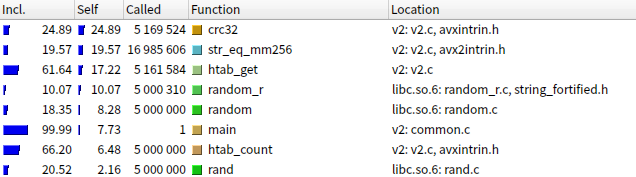
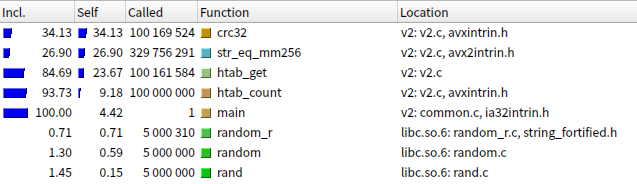
remeasure with O3

diff --git a/README.md b/README.md
@@ -10,40 +10,60 @@ TODO: замеры снова прогнать
 
 Хэш-таблицы используются когда есть необходимость в структуре данных, 
 которая будет сопоставлять значение с ключом ("словарь"). Для словарей стандартен
-набор из трёх поддерживаемых операций -- найти элемент по ключу, вставить элемент и удалить элемент, хотя некоторые словари поддерживают и другие операции.
+набор из трёх поддерживаемых операций -- найти элемент по ключу, вставить элемент и
+удалить элемент, хотя некоторые словари поддерживают и другие операции.
 
-Есть несколько вариаций хэш-таблиц, но мы рассмотрим вариант с закрытым хэшированием. Идея его такова:
+Есть несколько вариаций хэш-таблиц, но мы рассмотрим вариант с закрытым хэшированием.
+Идея его такова:
 
-Допустим был реализован словарь на односвязанном списке. Тогда операции реализованы таким образом:
+Допустим был реализован словарь на односвязанном списке. Тогда операции реализованы
+таким образом:
 
- - Поиск: итерируемся по списку, сравниваем ключи. Ключ совпал -- элемент найден, иначе если ни один не совпал, то ничего не найдено.
+ - Поиск: итерируемся по списку, сравниваем ключи. Ключ совпал -- элемент найден,
+   иначе если ни один не совпал, то ничего не найдено.
  - Вставка: добавляем новый элемент в конец списка
  - Удаление: находим элемент и убираем его из списка
 
-Данная реализация крайне проста, но неэффективна -- при больших количествах элементах на поиск может уходить время, пропорциональное количеству элементов в словаре, которое может быть большим.
+Данная реализация крайне проста, но неэффективна -- при больших количествах элементах
+на поиск может уходить время, пропорциональное количеству элементов в словаре, которое
+может быть большим.
 
-Поэтому возникла идея -- а что если разбить большой список на отдельные маленькие по какому-то признаку, связанному с ключом? Тогда на поиск элемента в худшем случае  будет уходить количество времени пропорциональное длинне самого длинного списка, что при правильном выборе признака можно значительно уменьшить.
+Поэтому возникла идея -- а что если разбить большой список на отдельные маленькие по
+какому-то признаку, связанному с ключом? Тогда на поиск элемента в худшем случа
+будет уходить количество времени пропорциональное длинне самого длинного списка,
+что при правильном выборе признака можно значительно уменьшить.
 
-Этот критерий называется *хэш-функцией* (*hash function*) от ключа, обычно связанные списки хранятся в массиве, каждый список называют *корзиной* (*bucket*).
+Этот критерий называется *хэш-функцией* (*hash function*) от ключа, обычно связанные
+списки хранятся в массиве, каждый список называют *корзиной* (*bucket*).
 
-Если хэш-функция имеет равномерное распределение на $n$ вставленных ключах, и всего $k$ списков, то мат. ожидание количества элементовв в каждом списке это $\frac n k$. Данная величина называется *load factor* (*коэффициент загрузки*).
+Если хэш-функция имеет равномерное распределение на $n$ вставленных ключах, и всего
+$k$ списков, то мат. ожидание количества элементовв в каждом списке это $\frac n k$.
+Данная величина называется *load factor* (*коэффициент загрузки*).
 
-Если строить хэш-таблицу так, что коэфф. загрузки не превышает чего-то вроде $2$, то в среднем за один поиск будет просмотрено $< 2$ элементов, что сильно лучше чем смотреть все.
+Если строить хэш-таблицу так, что коэфф. загрузки не превышает чего-то вроде $2$,
+то в среднем за один поиск будет просмотрено $< 2$ элементов, что сильно лучше чем
+смотреть все.
 
-Но имеется уязвимость таких структур -- если имеется много элементов с одинаковыми значениями хэш-функции, то в одном списке снова оказывается много элементов, и скорость снова скатывается к тому, что было изначально. Поэтому для "небезопасных" данных хэш-таблицы нужно использовать осторожно, не забывая про эту возможность.
+Но имеется уязвимость таких структур -- если имеется много элементов с одинаковыми
+значениями хэш-функции, то в одном списке снова оказывается много элементов, и скорость
+снова скатывается к тому, что было изначально. Поэтому для "небезопасных" данных
+хэш-таблицы нужно использовать осторожно, не забывая про эту возможность.
 
 ### Методика измерений
 
-В данной работе используются методы, приведённые в пособии П.В. Попова и А.А. Нозика "Обработка результатов учебного эксперимента"[^measure-methods], также методы из пособия Митина И.В. "Умеете ли вы правильно округлять"[^rounding-methods].
+В данной работе используются методы, приведённые в пособии П.В. Попова и А.А. Нозика
+"Обработка результатов учебного эксперимента"[^measure-methods], также методы из
+пособия Митина И.В. "Умеете ли вы правильно округлять"[^rounding-methods].
 
 В данной работе оптимизируется **время поиска элемента в таблице**, так что
 измерение направлены на это. 
 
-Поскольку время одного поиска небольшое, измеряется время некоторого количества операций поиска, внутри одного "блока" время работы одной операции считается константным. Таким обазом считаем среднее время работы операций внутри одного измерения, ошибку внутри блока вычислить не возможно.
+Поскольку время одного поиска небольшое, измеряется время некоторого количества
+операций поиска случайных ключей. Таким обазом считаем мат. ожидание времени работы
+операции при случайных ключах.
 
-> **TODO:** спросить -- может всё-таки возможно?
-
-Таких измерений проводится несколько десятков, затем считается среднее время работы вставки и погрешность по формулам:
+Таких измерений для одного и того же набора выбираемых ключей проводится несколько
+десятков, затем считается среднее время работы вставки и погрешность по формулам:
 
 $$
     t = \mathbb{E}[T] = \frac {\sum_{i=1}^{n} t_i} n 
@@ -56,18 +76,21 @@ $$
 
 (где $T$ -- время работы, $t_i$ -- результаты измерений)
 
-Погрешность взята в $3 \sigma$, таким образом вероятность попадания в данные границы $\approx 99.7\%$. **Это верно только при нормальном распределении измерений, но проверки данного факта в работе нет, потому что в таком случае нужно более "продвинутые" методы измерения**.
+Погрешность взята в $3 \sigma$, таким образом вероятность попадания в данные границы
+$\approx 99.7\%$. **Это верно только при нормальном распределении измерений,
+но проверки данного факта в работе нет, потому что в таком случае нужно более
+"продвинутые" методы измерения**.
 
 ## Архитектура программы
 
 ### Реализация таблицы
 
-Была реальзована версия таблиц со строковыми ключами и числовыми значениями.
-Использовано хэширование `crc32(key) % num_buckets`, метод разрешения колизий цепочками.
+Была реальзована версия таблиц с закрытым хэшированием со строковыми ключами и
+числовыми значениями. Использовано хэширование `crc32(key) % num_buckets`.
 
 Поскольку тут задача не состоит в реализации библиотеки, хэш-таблица хранится в
 статической переменной у каждой реализации. Размер таблицы фиксируется при
-инициализации, перехэширование не реализовано. 
+инициализации, перехэширование (увеличение количества корзин) не реализовано. 
 
 В учебных целях размер выбран таким образом, чтобы load factor был в райное 15-20.
 В "промышленных" версиях load factor 1.5-2, здесь он был взят высокий чтобы 
@@ -77,16 +100,16 @@ $$
 
 Последовательность действий с таблицей такова:
 
- - Загружаем слова из текста Сильмарилиона (`data/tolkien.txt`) в таблицу
+ - Загружаем слова из текста Сильмарилиона[^tolkien] (`data/tolkien.txt`) в таблицу
  - Проводим большое кол-во поисков случайно выбранных слов
  - Замеряем время, затраченное на поиски, считаем время затраченное на одну операцию поиска.
+ - Повторяем измерения несколько десятков раз
+ - Считаем среденее и ошибку.
 
 Время загрузки в измеренном времени не учитывается, рандомные индексы слов для поиска
-генерируются заранее.
+генерируются заранее с помощью `rand()`, так что время работы `rand()` в измерения попадает.
 
-Замеры проводятся по 5e6 поисков, всего 20 измерений. Измерение времени выполнения проводится через `__rdtsc()`. На основании полученных измерений считается среднее число циклов на одну операцию поиска и ошибка среднего.
-
-Ошибкой считается тройная дисперсия измеренных значений.
+Замеры проводятся по 5e6 поисков, всего 20 измерений. Измерение времени выполнения проводится через `__rdtsc()`.
 
 Обстановка измерений такая:
 
@@ -95,7 +118,7 @@ $$
  - Компилятор: `gcc (GCC) 14.2.1 20250207`
  - Valgrind: `valgrind-3.24.0`
  - GLibc: `2.41`, отладочные символы установлены отдельно.
- - Графическая оболочка не запущена.
+ - Графическая оболочка не запущена, сетевая карта выключена.
 
 ## Реализации
 
@@ -141,7 +164,7 @@ make res/v0
 ./res/v0 # измеряет время
 ```
 
-Получили 229 ± 3 тактов на запрос.
+Получили 224 ± 2 тактов на запрос.
 
 Затем измерения того же кода, только с добавлением флага `-O3`:
 
@@ -153,7 +176,8 @@ make res/callgrind-v1.data # Запускает callgrind
 kcachegrind res/callgrind-v1.data
 ```
 
-Получено время 173 ± 4 такта на один запрос, ускорение программы при добавлении `-O3` в 1.33 ± 0.05 раз.
+Получено время 166 ± 4 такта на один запрос, **ускорение программы при добавлении
+`-O3` в 1.350 ± 0.023 раз.**
 
 Продолжаем. В kcachegrind в профиле видим:
 
@@ -165,7 +189,7 @@ kcachegrind res/callgrind-v1.data
 
 Храним слова в нодах хэш-таблицы в `__m256i`, лишние байты после `\0` могут быть какими угодно.
 Сравниваем их через векторные операции, взяв код из библиотечного
-`strcmp` ([ихсодники на github](https://github.com/lattera/glibc/blob/895ef79e04a953cac1493863bcae29ad85657ee1/sysdeps/x86_64/multiarch/strcmp-avx2.S#L101)).
+`strcmp`[^glibc] ([взятые строки](https://github.com/lattera/glibc/blob/895ef79e04a953cac1493863bcae29ad85657ee1/sysdeps/x86_64/multiarch/strcmp-avx2.S#L101)).
 
 Общая идея такая:
 
@@ -203,11 +227,15 @@ make res/callgrind-v2.data
 kcachegrind res/callgrind-v2.data
 ```
 
-Время работы `164 +- 1` цикла на один запрос, прирост скорости в 1.05 ± 0.04 раза по сравнению с прошлым пунктом, то есть .
+Время работы 165 ± 4 цикла на один запрос, **прирост скорости в 1.01 ± 0.03 раза** по сравнению с прошлым пунктом. **Данная оптимизация не имеет смысла.**
+
+Но в valgrind видим такую вещь:
 
 ![](img/v2.png)
 
-Сравнение строк ушло на второе место, теперь оптимизируем `crc32`.
+Сравнение строк внезапно ушло на второе место. **Судя по всему внутри valgrind время измеряется чуть по другому**. Так что оставим оптимизацию, хранение строк в `__mm256` понядобится позже.
+
+Теперь оптимизируем `crc32`.
 
 ### Оптимизация `crc32`
 
@@ -233,12 +261,13 @@ make res/callgrind-v3.data
 kcachegrind res/callgrind-v3.data
 ```
 
-Время работы `149 +- 5` цикла на один запрос.
+Время работы 148 ± 2 цикла на один запрос. **Ускорилось в 1.10 ± 0.03**, оптимизация имеет смысл.
 
 ![](img/v3.png)
 
-`crc32` ушло вниз, сравнение на первом месте. На втором месте поиск элемента.
-Инлайним в него сравнение, переписываем поиск обе эти функции на ассемблере.
+`crc32` ушло вниз на два пункта, сравнение на первом месте. Поскольку сравнение особо не улучшишь,
+пробуем улучшить то, что на втором месте. На втором месте поиск элемента.
+Инлайним в него сравнение, переписываем обе эти функции на ассемблере.
 
 ### Переписываем поиск
 
@@ -252,36 +281,29 @@ make res/callgrind-v4.data
 kcachegrind res/callgrind-v4.data
 ```
 
+Получилось 138.0 ± 0.9 тиков на поиск, **ускорение в 1.080 ± 0.015 раза по сравнению с прошлой версией**
+
 ![](img/v4.png)
 
 Видим, что наверху только что переписанный `htab_get`. Пока что останавливаемся.
 
 ## Результаты
 
-TODO
+Итого, получены такие результаты:
 
-Каждая версия запускалась по 10 раз, версии запускались поочерёдно так что влияние нагрева/изменение
-частоты на них одинаковое. Замерялось время запросов, загрузка с диска не учитывалась.
+| Вариант             | Среднее кол-во тиков на поиск | Ускорение отн. первой версии |
+|---------------------|-------------------------------|------------------------------|
+| Изначальная версия  | 224 ± 2                       | ---                          |
+| Добавили `-O3`      | 166 ± 4                       | 1.350 ± 0.023                |
+| Переписали `strcmp` | 165 ± 4                       | 1.37 ± 0.04                  |
+| Переписали `crc32`  | 148 ± 2                       | 1.505 ± 0.024                |
+| Переписали поиск    | 138.0 ± 0.9                   | 1.624 ± 0.018                |
 
-По хорошему их нужно будет перемерять на более стабильном устройстве, но пока такие промежуточные результаты:
-
-![](plot.svg)
-
-Строится так:
-
-```
-./bench.sh
-python plot.py
-```
-
-Данные к этому графику в `author-time.tsv`, скрипт их пишет в `res/time.tsv`.
+Итого, после оптимизаций поиск получилось ускорить в **~ 1.6 раза**.
 
 ## Что использовалось
 
- - Сильмарилион -- Д. Р. Р. Толкиен, Web archive -- https://archive.org/details/TheSilmarillionIllustratedJ.R.R.TolkienTedNasmith
- - Исходники `glibc 2.28.9000 development` -- https://github.com/lattera/glibc/tree/895ef79e04a953cac1493863bcae29ad85657ee1
- - valgrind, callgrind для замеров
- - pandas, matplotlib для графика
-
 [^measure-methods]: "Обработка результатов учебного эксперимента", П.В. Попов, А.А. Нозик. https://mipt.ru/upload/Кафедра общей физики/1/lab/LabTheory_PopovNozik2024.pdf
-[^rounding-methods]: "Умеете ли вы правильно округлять?", И.В. Митин, https://genphys.phys.msu.ru/rus/ofp/CanYouRound.pdf
+[^rounding-methods]: "Умеете ли вы правильно округлять?", И.В. Митин, http://genphys.phys.msu.ru/rus/ofp/CanYouRound.pdf
+[^tolkien]: Сильмарилион -- Д. Р. Р. Толкиен, Web archive -- https://archive.org/details/TheSilmarillionIllustratedJ.R.R.TolkienTedNasmith
+[^glibc]: Исходники `glibc 2.28.9000 development` -- https://github.com/lattera/glibc/tree/895ef79e04a953cac1493863bcae29ad85657ee1
